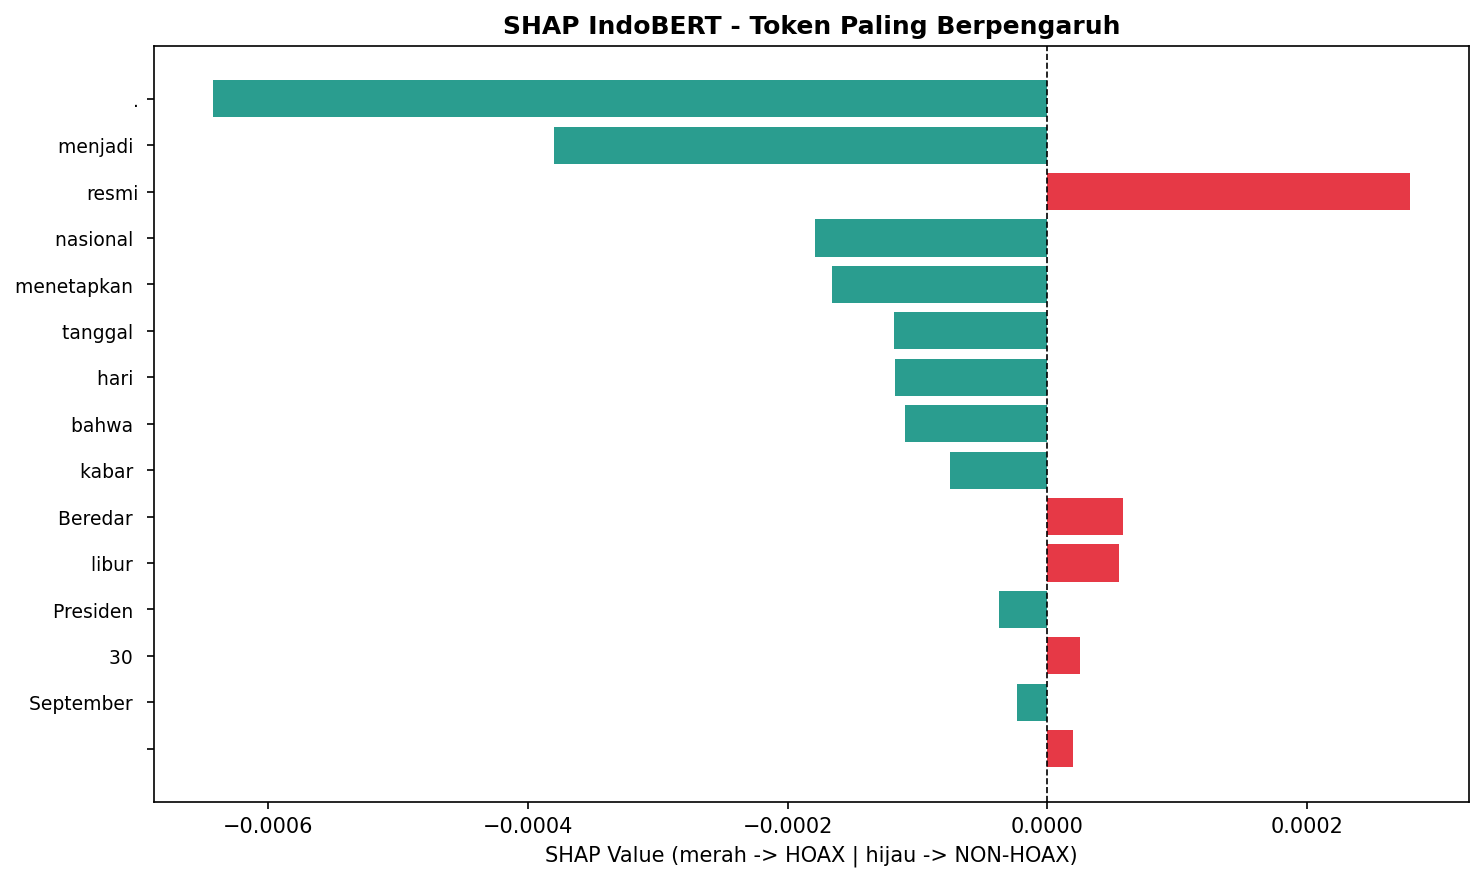
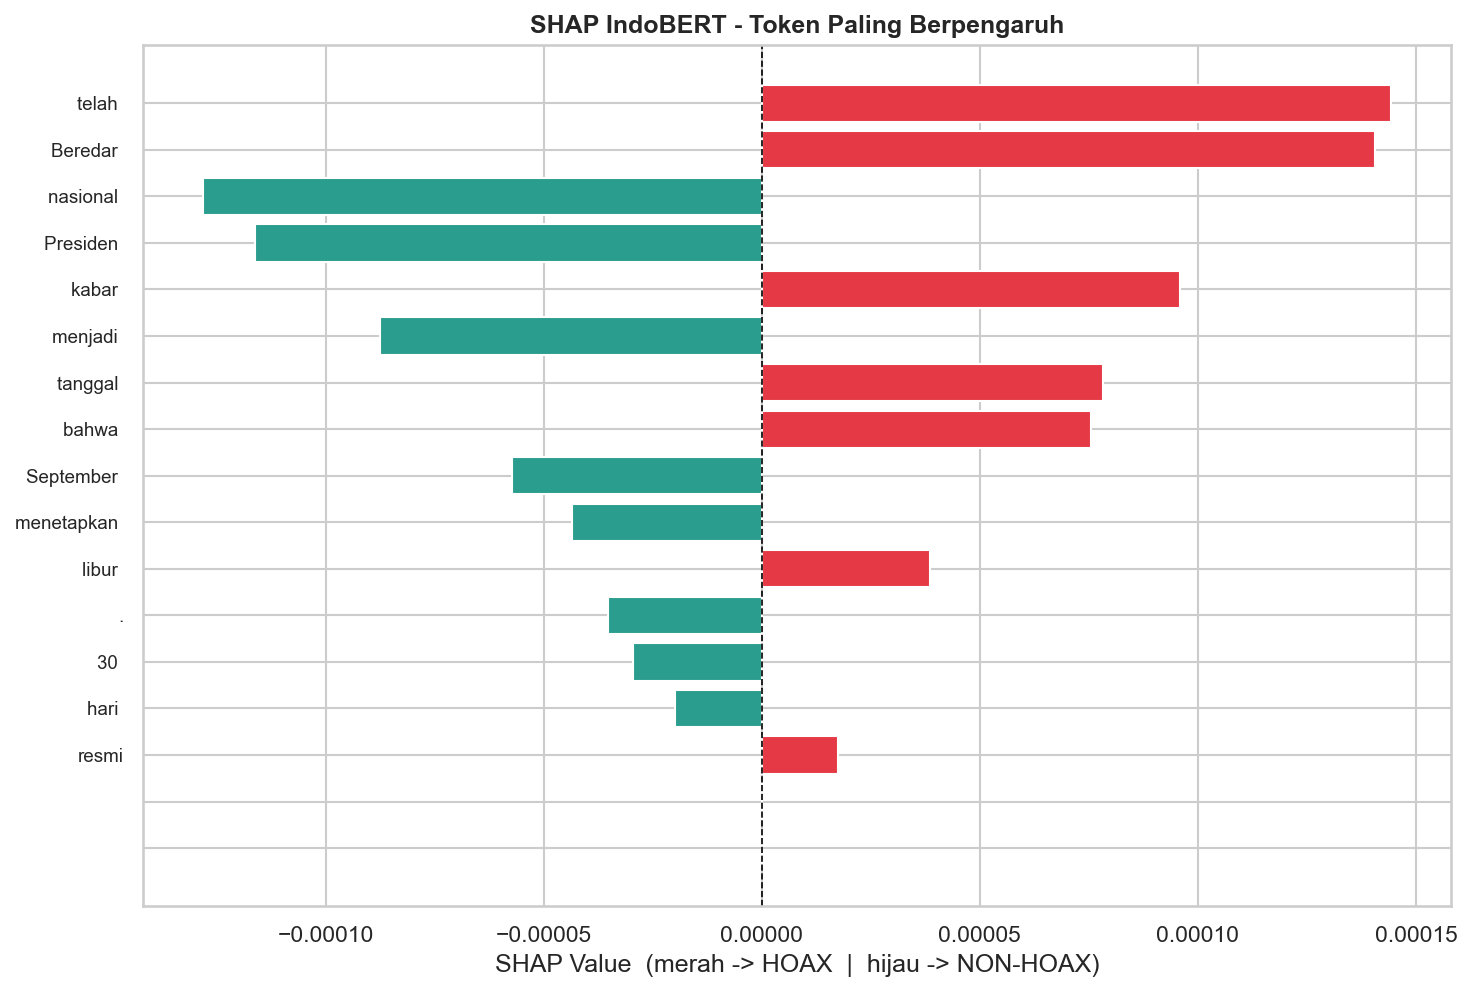
feat: update SHAP analysis plots and journal comparison results

diff --git a/tabel_komparasi_jurnal.md b/tabel_komparasi_jurnal.md
@@ -2,4 +2,4 @@
 |:------------------------|-----------:|--------------------:|-----------------:|-------------------:|----------------------:|----------:|
 | SVM + TF-IDF            |   0.96873  |            0.9645   |         0.964951 |           0.964725 |              0.968738 |  0.992898 |
 | TextCNN (Yoon Kim 2014) |   0.962348 |            0.957506 |         0.957506 |           0.957506 |              0.962348 |  0.98883  |
-| IndoBERT (Fine-Tuned)   |   0.980217 |            0.976804 |         0.978645 |           0.977716 |              0.980236 |  0.994045 |
+| IndoBERT (Fine-Tuned)   |   0.983408 |            0.979963 |         0.982733 |           0.981328 |              0.983432 |  0.994119 |
